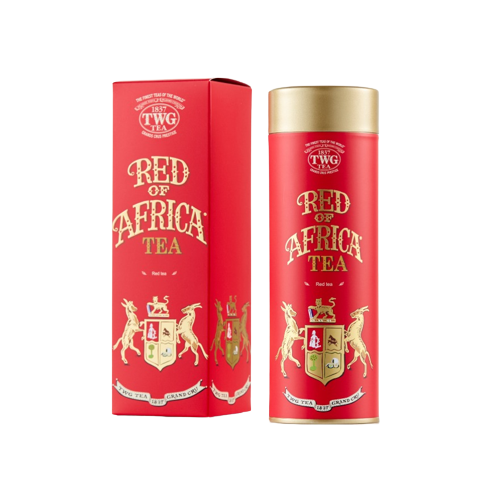
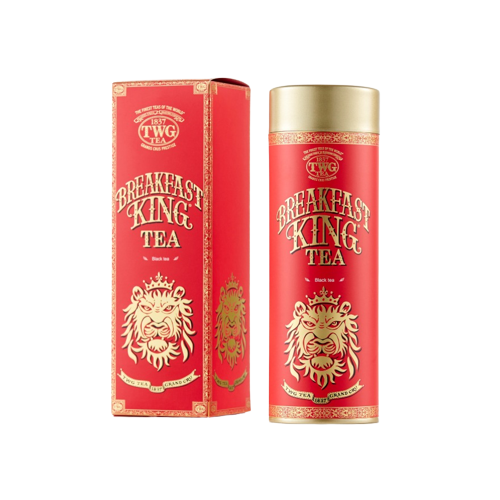
업로드

Changed region(s): [[0.21, 0.15, 0.78, 0.87], [0.54, 0.15, 0.75, 0.18]]

diff --git a/html/twg_sub2.html b/html/twg_sub2.html
@@ -120,13 +120,12 @@
                         <div class="item_img_area">
                             <a href="#">
                                 <img src="../images/twg/item4.png" alt="
-                                레드 오브 아프리카 티">
+                                블랙퍼스트 킹 티">
                                 <img src="../images/twg/item4_1.png" alt="잎차">
                             </a>
                         </div>
                         <div class="item_info_area">
-                            <h1>TEA PREPARATION<br>
-                                RED OFAFRICA TEA</h1>
+                            <h1>BREAKFAST KING TEA</h1>
                             <h2>S$45.00</h2>
                             <button class="hover-target">BUY NOW</button>
                         </div>
@@ -252,12 +251,11 @@
                         <div class="item_img_area">
                             <a href="#">
                                 <img src="../images/twg/item4.png" alt="
-                                레드 오브 아프리카 티">
+                                블랙퍼스트 킹 티">
                             </a>
                         </div>
                         <div class="item_info_area">
-                            <h1>TEA PREPARATION<br>
-                                RED OFAFRICA TEA</h1>
+                            <h1>BREAKFAST KING TEA</h1>
                             <h2>S$45.00</h2>
                             <button class="hover-target">BUY NOW</button>
                         </div>
@@ -377,12 +375,11 @@
                         <div class="item_img_area">
                             <a href="#">
                                 <img src="../images/twg/item4.png" alt="
-                                레드 오브 아프리카 티">
+                                블랙퍼스트 킹 티">
                             </a>
                         </div>
                         <div class="item_info_area">
-                            <h1>TEA PREPARATION<br>
-                                RED OFAFRICA TEA</h1>
+                            <h1>BREAKFAST KING TEA</h1>
                             <h2>S$45.00</h2>
                             <button class="hover-target">BUY NOW</button>
                         </div>
@@ -502,12 +499,11 @@
                         <div class="item_img_area">
                             <a href="#">
                                 <img src="../images/twg/item4.png" alt="
-                                레드 오브 아프리카 티">
+                                블랙퍼스트 킹 티">
                             </a>
                         </div>
                         <div class="item_info_area">
-                            <h1>TEA PREPARATION<br>
-                                RED OFAFRICA TEA</h1>
+                            <h1>BREAKFAST KING TEA</h1>
                             <h2>S$45.00</h2>
                             <button class="hover-target">BUY NOW</button>
                         </div>
@@ -627,12 +623,11 @@
                         <div class="item_img_area">
                             <a href="#">
                                 <img src="../images/twg/item4.png" alt="
-                                레드 오브 아프리카 티">
+                                블랙퍼스트 킹 티">
                             </a>
                         </div>
                         <div class="item_info_area">
-                            <h1>TEA PREPARATION<br>
-                                RED OFAFRICA TEA</h1>
+                            <h1>BREAKFAST KING TEA</h1>
                             <h2>S$45.00</h2>
                             <button class="hover-target">BUY NOW</button>
                         </div>
